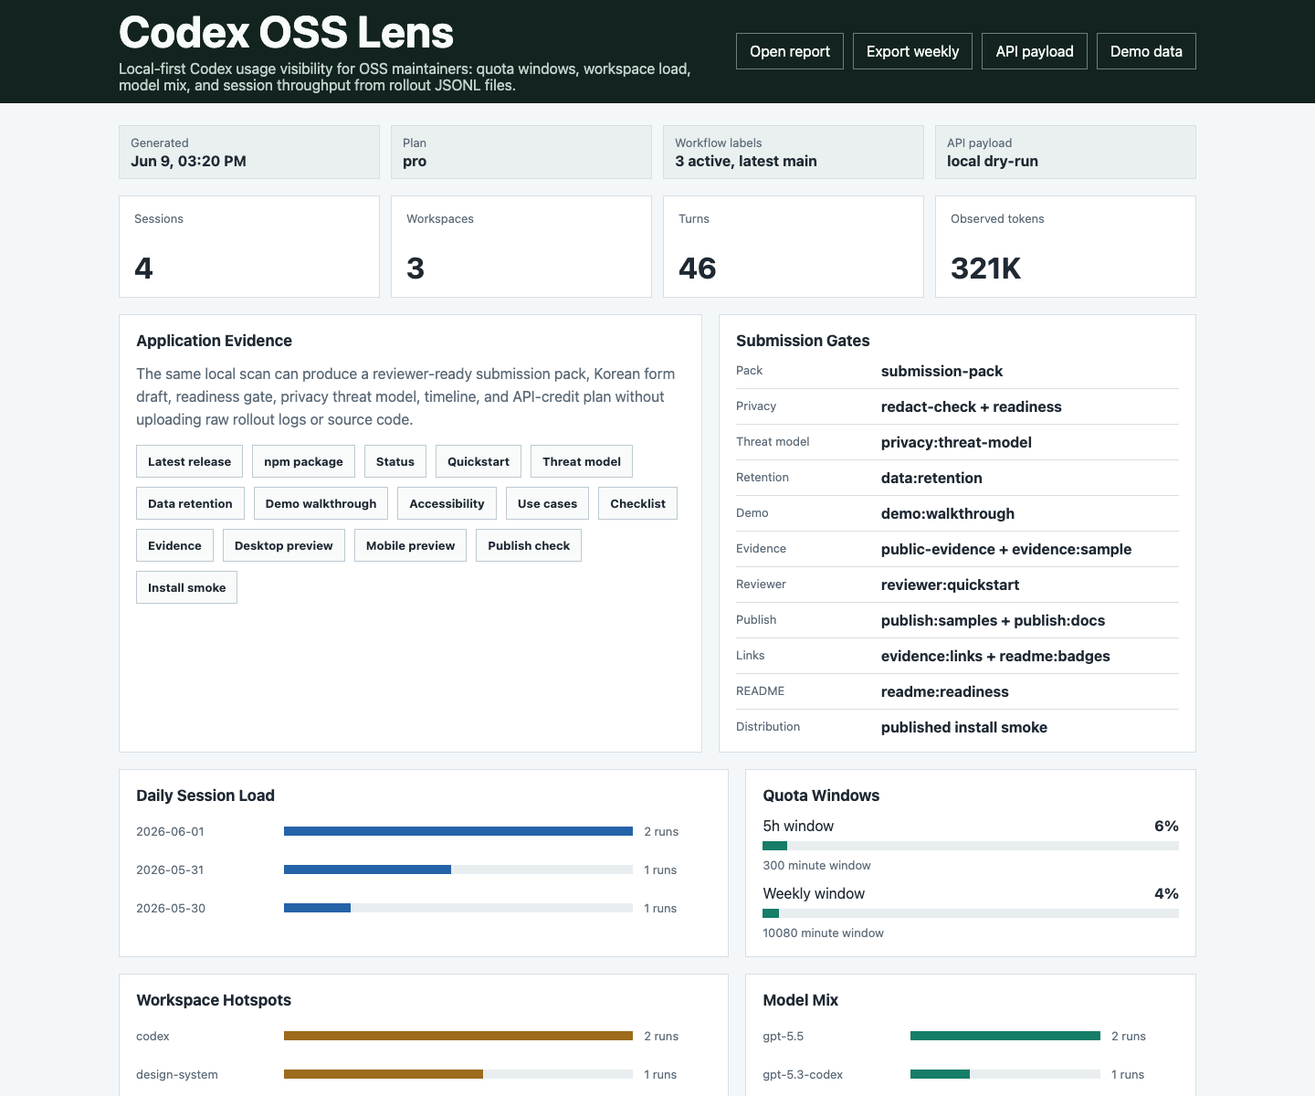
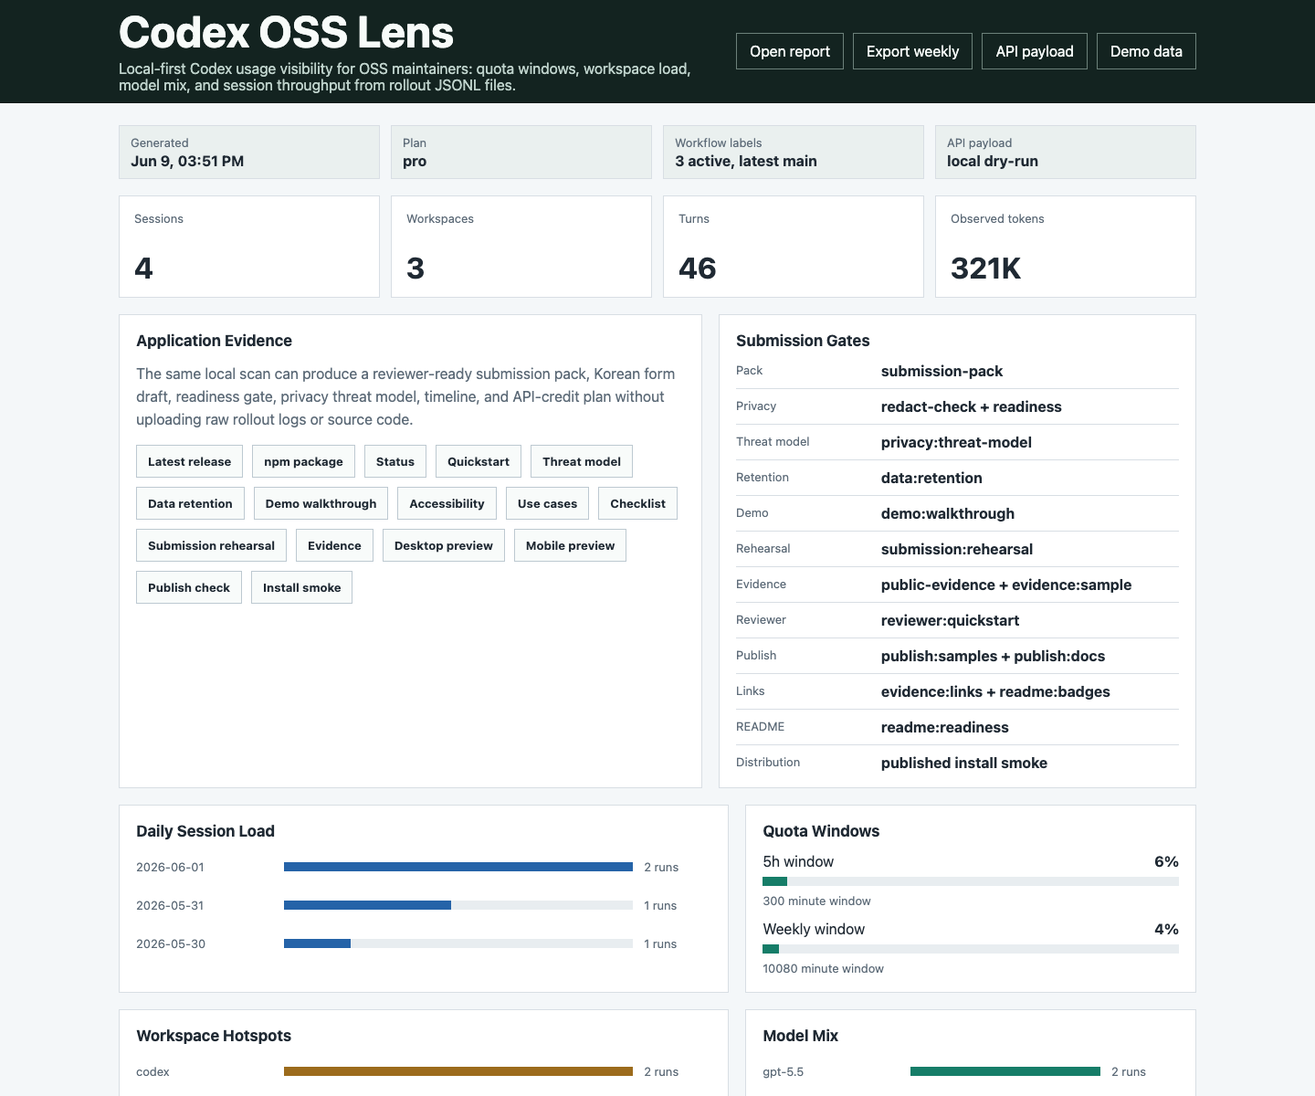
Make final submission rehearsal reviewable
The project now has extensive public evidence, but the final form submission still mixes machine-checkable gates with account-owner-only actions. This change adds a submission rehearsal page, makes it first-class reviewer evidence, exposes it in the dashboard, and checks it through CI/submission gates so the final dry run is auditable without automating personal fields or terms acceptance.

Constraint: Account-owner fields, OpenAI organization ID, terms review, and the final Submit action must remain manual.

Constraint: Local 1Password SSH signing agent remains unreliable, so this automation commit is unsigned.

Rejected: Expand only the final checklist | a dedicated rehearsal page gives reviewers and the account owner a clearer dry-run path with abort conditions.

Confidence: high

Scope-risk: moderate

Directive: Keep docs/submission-rehearsal.md, public evidence links, dashboard evidence links, and submission:rehearsal aligned whenever the form fields or submit-time gates change.

Tested: npm run submission:rehearsal && npm run dashboard:readiness && npm run evidence:sample && npm run form-draft:sample && npm run final-copy:check && npm run application:status && npm run reviewer:quickstart && npm run publish:docs && npm run readme:readiness && npm run ci:readiness && npm test
[…]

diff --git a/src/cli.js b/src/cli.js
@@ -191,6 +191,7 @@ async function main() {
         apiWorkflowUrl: options.apiWorkflowUrl,
         useCasesUrl: options.useCasesUrl,
         finalChecklistUrl: options.finalChecklistUrl,
+        submissionRehearsalUrl: options.submissionRehearsalUrl,
         finalCopyUrl: options.finalCopyUrl,
         formDraftSampleUrl: options.formDraftSampleUrl,
         publicEvidenceSampleUrl: options.publicEvidenceSampleUrl,
@@ -287,6 +288,7 @@ function parseArgs(args) {
     else if (arg === "--npm-package") options.npmPackage = args[++i];
     else if (arg === "--use-cases-url") options.useCasesUrl = args[++i];
     else if (arg === "--final-checklist-url") options.finalChecklistUrl = args[++i];
+    else if (arg === "--submission-rehearsal-url") options.submissionRehearsalUrl = args[++i];
     else if (arg === "--final-copy-url") options.finalCopyUrl = args[++i];
     else if (arg === "--form-draft-sample-url") options.formDraftSampleUrl = args[++i];
     else if (arg === "--public-evidence-sample-url") options.publicEvidenceSampleUrl = args[++i];
@@ -391,11 +393,11 @@ Usage:
   codex-oss-lens scorecard --manifest manifest.json [--readiness readiness.json] [--api-plan api-plan.json] [--timeline timeline.json] [--out scorecard.json] [--markdown scorecard.md]
   codex-oss-lens evidence-index --manifest manifest.json [--readiness readiness.json] [--api-plan api-plan.json] [--timeline timeline.json] [--scorecard scorecard.json] [--form-draft form-draft.json] [--out evidence-index.json] [--markdown evidence-index.md] [--html evidence-index.html]
   codex-oss-lens submission-pack [--codex-home ~/.codex] [--repo owner/name] [--out-dir codex-submission-pack] [--demo]
-  codex-oss-lens form-draft --manifest manifest.json [--readiness readiness.json] [--api-plan api-plan.json] [--scorecard scorecard.json] [--repo url] [--release-url url] [--npm-package url] [--roadmap-url url] [--application-status-url url] [--reviewer-quickstart-url url] [--release-provenance-url url] [--adoption-plan-url url] [--maintenance-policy-url url] [--privacy-threat-model-url url] [--data-retention-url url] [--demo-walkthrough-url url] [--accessibility-url url] [--api-workflow-url url] [--use-cases-url url] [--final-checklist-url url] [--final-copy-url url] [--form-draft-sample-url url] [--public-evidence-sample-url url] [--dashboard-preview-url url] [--mobile-dashboard-preview-url url] [--publish-check-sample-url url] [--install-smoke-sample-url url] [--node-ci-url url] [--published-smoke-url url] [--out form-draft.json] [--markdown form-draft.md]
+  codex-oss-lens form-draft --manifest manifest.json [--readiness readiness.json] [--api-plan api-plan.json] [--scorecard scorecard.json] [--repo url] [--release-url url] [--npm-package url] [--roadmap-url url] [--application-status-url url] [--reviewer-quickstart-url url] [--release-provenance-url url] [--adoption-plan-url url] [--maintenance-policy-url url] [--privacy-threat-model-url url] [--data-retention-url url] [--demo-walkthrough-url url] [--accessibility-url url] [--api-workflow-url url] [--use-cases-url url] [--final-checklist-url url] [--submission-rehearsal-url url] [--final-copy-url url] [--form-draft-sample-url url] [--public-evidence-sample-url url] [--dashboard-preview-url url] [--mobile-dashboard-preview-url url] [--publish-check-sample-url url] [--install-smoke-sample-url url] [--node-ci-url url] [--published-smoke-url url] [--out form-draft.json] [--markdown form-draft.md]
   codex-oss-lens pack-validate <submission-pack-dir> [--min-score 75] [--out pack-validation.json] [--markdown pack-validation.md]
   codex-oss-lens publish-check [--package-json package.json] [--out publish-check.json] [--markdown publish-check.md]
   codex-oss-lens install-smoke [--package codex-oss-lens] [--version latest] [--bin codex-oss-lens] [--out install-smoke.json] [--markdown install-smoke.md]
-  codex-oss-lens public-evidence [--repo url] [--release-url url] [--npm-package url] [--roadmap-url url] [--application-status-url url] [--reviewer-quickstart-url url] [--release-provenance-url url] [--adoption-plan-url url] [--maintenance-policy-url url] [--privacy-threat-model-url url] [--data-retention-url url] [--demo-walkthrough-url url] [--accessibility-url url] [--api-workflow-url url] [--use-cases-url url] [--final-checklist-url url] [--final-copy-url url] [--form-draft-sample-url url] [--public-evidence-sample-url url] [--dashboard-preview-url url] [--mobile-dashboard-preview-url url] [--publish-check-sample-url url] [--install-smoke-sample-url url] [--node-ci-url url] [--published-smoke-url url] [--out public-evidence.json] [--markdown public-evidence.md]
+  codex-oss-lens public-evidence [--repo url] [--release-url url] [--npm-package url] [--roadmap-url url] [--application-status-url url] [--reviewer-quickstart-url url] [--release-provenance-url url] [--adoption-plan-url url] [--maintenance-policy-url url] [--privacy-threat-model-url url] [--data-retention-url url] [--demo-walkthrough-url url] [--accessibility-url url] [--api-workflow-url url] [--use-cases-url url] [--final-checklist-url url] [--submission-rehearsal-url url] [--final-copy-url url] [--form-draft-sample-url url] [--public-evidence-sample-url url] [--dashboard-preview-url url] [--mobile-dashboard-preview-url url] [--publish-check-sample-url url] [--install-smoke-sample-url url] [--node-ci-url url] [--published-smoke-url url] [--out public-evidence.json] [--markdown public-evidence.md]
   codex-oss-lens serve [--codex-home ~/.codex] [--port 5057] [--demo]
   codex-oss-lens demo [--out report.json]
 

diff --git a/test/public-evidence.test.js b/test/public-evidence.test.js
@@ -20,6 +20,7 @@ test("builds public evidence with required links and manual fields", () => {
   assert.match(evidence.publicLinks.privacyThreatModelUrl, /docs\/privacy-threat-model\.md$/);
   assert.match(evidence.publicLinks.dataRetentionUrl, /docs\/data-retention\.md$/);
   assert.match(evidence.publicLinks.demoWalkthroughUrl, /docs\/demo-walkthrough\.md$/);
+  assert.match(evidence.publicLinks.submissionRehearsalUrl, /docs\/submission-rehearsal\.md$/);
   assert.match(evidence.publicLinks.accessibilityUrl, /docs\/accessibility\.md$/);
   assert.ok(evidence.proofPoints.some((item) => item.id === "publishedSmoke"));
   assert.ok(evidence.proofPoints.some((item) => item.id === "applicationStatus"));
@@ -30,6 +31,7 @@ test("builds public evidence with required links and manual fields", () => {
   assert.ok(evidence.proofPoints.some((item) => item.id === "privacyThreatModel"));
   assert.ok(evidence.proofPoints.some((item) => item.id === "dataRetention"));
   assert.ok(evidence.proofPoints.some((item) => item.id === "demoWalkthrough"));
+  assert.ok(evidence.proofPoints.some((item) => item.id === "submissionRehearsal"));
   assert.ok(evidence.proofPoints.some((item) => item.id === "accessibility"));
   assert.ok(evidence.proofPoints.some((item) => item.id === "finalChecklist"));
   assert.ok(evidence.proofPoints.some((item) => item.id === "finalCopy"));
@@ -93,6 +95,8 @@ test("CLI accepts reviewer link overrides for public evidence", async () => {
     "https://github.com/example/project/blob/main/docs/maintainer-use-cases.md",
     "--final-checklist-url",
     "https://github.com/example/project/blob/main/docs/final-submission-checklist.md",
+    "--submission-rehearsal-url",
+    "https://github.com/example/project/blob/main/docs/submission-rehearsal.md",
     "--final-copy-url",
     "https://github.com/example/project/blob/main/application/final-copy.md",
     "--form-draft-sample-url",
@@ -126,6 +130,7 @@ test("CLI accepts reviewer link overrides for public evidence", async () => {
   assert.equal(evidence.publicLinks.demoWalkthroughUrl, "https://github.com/example/project/blob/main/docs/demo-walkthrough.md");
   assert.equal(evidence.publicLinks.accessibilityUrl, "https://github.com/example/project/blob/main/docs/accessibility.md");
   assert.equal(evidence.publicLinks.finalChecklistUrl, "https://github.com/example/project/blob/main/docs/final-submission-checklist.md");
+  assert.equal(evidence.publicLinks.submissionRehearsalUrl, "https://github.com/example/project/blob/main/docs/submission-rehearsal.md");
   assert.equal(evidence.publicLinks.formDraftSampleUrl, "https://github.com/example/project/blob/main/examples/form-draft.sample.md");
   assert.equal(evidence.publicLinks.publicEvidenceSampleUrl, "https://github.com/example/project/blob/main/examples/public-evidence.sample.md");
   assert.equal(evidence.publicLinks.dashboardPreviewUrl, "https://github.com/example/project/blob/main/examples/dashboard-preview.png");

diff --git a/scripts/check-submission-rehearsal.js b/scripts/check-submission-rehearsal.js
@@ -1,0 +1,55 @@
+#!/usr/bin/env node
+import { promises as fs } from "node:fs";
+
+const files = {
+  rehearsal: await fs.readFile("docs/submission-rehearsal.md", "utf8"),
+  status: await fs.readFile("docs/application-status.md", "utf8"),
+  reviewer: await fs.readFile("docs/reviewer-quickstart.md", "utf8"),
+  checklist: await fs.readFile("docs/final-submission-checklist.md", "utf8"),
+  readme: await fs.readFile("README.md", "utf8"),
+  dashboard: await fs.readFile("public/index.html", "utf8"),
+  workflow: await fs.readFile(".github/workflows/test.yml", "utf8"),
+  formAnswers: await fs.readFile("application/form-answers.md", "utf8"),
+};
+
+let failures = 0;
+
+requireText("rehearsal", "# Submission Rehearsal", "title");
+requireText("rehearsal", "npm run submission:check", "submission check command");
+requireText("rehearsal", "npm run evidence:links", "public link command");
+requireText("rehearsal", "npm run submission:rehearsal", "self gate command");
+requireText("rehearsal", "signed-out browser", "signed-out review requirement");
+requireText("rehearsal", "Last name", "manual last name");
+requireText("rehearsal", "OpenAI organization ID", "manual org id");
+requireText("rehearsal", "Terms review and final submit", "manual terms gate");
+requireText("rehearsal", "https://openai.com/ko-KR/form/codex-for-oss/", "source form URL");
+requireText("rehearsal", "Stop before pressing Submit", "submit stop gate");
+requireText("rehearsal", "Do not submit if", "abort condition heading");
+requireText("status", "Submission rehearsal | Ready", "application status row");
+requireText("status", "npm run submission:rehearsal", "application status command");
+requireText("reviewer", "docs/submission-rehearsal.md", "reviewer rehearsal link");
+requireText("checklist", "docs/submission-rehearsal.md", "final checklist rehearsal link");
+requireText("checklist", "npm run submission:rehearsal", "final checklist gate");
+requireText("readme", "docs/submission-rehearsal.md", "README rehearsal link");
+requireText("readme", "npm run submission:rehearsal", "README rehearsal gate");
+requireText("dashboard", "docs/submission-rehearsal.md", "dashboard rehearsal link");
+requireText("dashboard", "Submission rehearsal", "dashboard rehearsal label");
+requireText("dashboard", "submission:rehearsal", "dashboard rehearsal gate");
+requireText("workflow", "npm run submission:rehearsal", "CI rehearsal gate");
+requireText("formAnswers", "docs/submission-rehearsal.md", "form answers rehearsal link");
+
+if (failures) {
+  console.error(`Submission rehearsal check failed for ${failures} requirement(s).`);
+  process.exit(1);
+}
+
+console.log("pass submissionRehearsal");
+
+function requireText(fileKey, needle, label) {
+  if (files[fileKey].includes(needle)) {
+    console.log(`pass ${label}`);
+    return;
+  }
+  console.error(`fail missing ${label}: ${needle}`);
+  failures += 1;
+}

diff --git a/src/public-evidence.js b/src/public-evidence.js
@@ -15,6 +15,7 @@ const DEFAULTS = {
   apiWorkflowUrl: "https://github.com/dbunk903/codex-oss-lens/blob/main/docs/api-credit-workflow.md",
   useCasesUrl: "https://github.com/dbunk903/codex-oss-lens/blob/main/docs/maintainer-use-cases.md",
   finalChecklistUrl: "https://github.com/dbunk903/codex-oss-lens/blob/main/docs/final-submission-checklist.md",
+  submissionRehearsalUrl: "https://github.com/dbunk903/codex-oss-lens/blob/main/docs/submission-rehearsal.md",
   finalCopyUrl: "https://github.com/dbunk903/codex-oss-lens/blob/main/application/final-copy.md",
   formDraftSampleUrl: "https://github.com/dbunk903/codex-oss-lens/blob/main/examples/form-draft.sample.md",
   publicEvidenceSampleUrl: "https://github.com/dbunk903/codex-oss-lens/blob/main/examples/public-evidence.sample.md",
@@ -60,6 +61,7 @@ export function buildPublicEvidence(options = {}) {
       proof("apiCreditWorkflow", "API-credit workflow keeps raw logs local and sends aggregate opt-in payloads.", links.apiWorkflowUrl),
       proof("maintainerUseCases", "Maintainer use cases document weekly review, evidence, privacy, and package confidence.", links.useCasesUrl),
       proof("finalChecklist", "Final checklist captures submit-time public links, verification, and account-owner gates.", links.finalChecklistUrl),
+      proof("submissionRehearsal", "Submission rehearsal separates machine checks from account-owner-only form steps.", links.submissionRehearsalUrl),
       proof("finalCopy", "Final copy keeps Korean application answers within form limits.", links.finalCopyUrl),
       proof("formDraftSample", "Form draft sample shows paste-ready answers with complete reviewer links.", links.formDraftSampleUrl),
       proof("publicEvidenceSample", "Public evidence sample records the generated reviewer link set.", links.publicEvidenceSampleUrl),
@@ -97,6 +99,7 @@ function compactLinks(options) {
     ...(options.apiWorkflowUrl ? { apiWorkflowUrl: options.apiWorkflowUrl } : {}),
     ...(options.useCasesUrl ? { useCasesUrl: options.useCasesUrl } : {}),
     ...(options.finalChecklistUrl ? { finalChecklistUrl: options.finalChecklistUrl } : {}),
+    ...(options.submissionRehearsalUrl ? { submissionRehearsalUrl: options.submissionRehearsalUrl } : {}),
     ...(options.finalCopyUrl ? { finalCopyUrl: options.finalCopyUrl } : {}),
     ...(options.formDraftSampleUrl ? { formDraftSampleUrl: options.formDraftSampleUrl } : {}),
     ...(options.publicEvidenceSampleUrl ? { publicEvidenceSampleUrl: options.publicEvidenceSampleUrl } : {}),

diff --git a/public/index.html b/public/index.html
@@ -442,6 +442,7 @@
               <a class="link-button" href="https://github.com/dbunk903/codex-oss-lens/blob/main/docs/accessibility.md">Accessibility</a>
               <a class="link-button" href="https://github.com/dbunk903/codex-oss-lens/blob/main/docs/maintainer-use-cases.md">Use cases</a>
               <a class="link-button" href="https://github.com/dbunk903/codex-oss-lens/blob/main/docs/final-submission-checklist.md">Checklist</a>
+              <a class="link-button" href="https://github.com/dbunk903/codex-oss-lens/blob/main/docs/submission-rehearsal.md">Submission rehearsal</a>
               <a class="link-button" href="https://github.com/dbunk903/codex-oss-lens/blob/main/examples/public-evidence.sample.md">Evidence</a>
               <a class="link-button" href="https://github.com/dbunk903/codex-oss-lens/blob/main/examples/dashboard-preview.png">Desktop preview</a>
               <a class="link-button" href="https://github.com/dbunk903/codex-oss-lens/blob/main/examples/dashboard-mobile-preview.png">Mobile preview</a>
@@ -457,6 +458,7 @@
               <li><span class="label">Threat model</span><strong>privacy:threat-model</strong></li>
               <li><span class="label">Retention</span><strong>data:retention</strong></li>
               <li><span class="label">Demo</span><strong>demo:walkthrough</strong></li>
+              <li><span class="label">Rehearsal</span><strong>submission:rehearsal</strong></li>
               <li><span class="label">Evidence</span><strong>public-evidence + evidence:sample</strong></li>
               <li><span class="label">Reviewer</span><strong>reviewer:quickstart</strong></li>
               <li><span class="label">Publish</span><strong>publish:samples + publish:docs</strong></li>

diff --git a/test/form-draft.test.js b/test/form-draft.test.js
@@ -28,6 +28,7 @@ test("builds copy-ready Korean OSS support form draft", () => {
       dataRetentionUrl: "https://github.com/dbunk903/codex-oss-lens/blob/main/docs/data-retention.md",
       demoWalkthroughUrl: "https://github.com/dbunk903/codex-oss-lens/blob/main/docs/demo-walkthrough.md",
       accessibilityUrl: "https://github.com/dbunk903/codex-oss-lens/blob/main/docs/accessibility.md",
+      submissionRehearsalUrl: "https://github.com/dbunk903/codex-oss-lens/blob/main/docs/submission-rehearsal.md",
     },
   });
 
@@ -41,6 +42,7 @@ test("builds copy-ready Korean OSS support form draft", () => {
   assert.equal(draft.publicLinks.dataRetention, "https://github.com/dbunk903/codex-oss-lens/blob/main/docs/data-retention.md");
   assert.equal(draft.publicLinks.demoWalkthrough, "https://github.com/dbunk903/codex-oss-lens/blob/main/docs/demo-walkthrough.md");
   assert.equal(draft.publicLinks.accessibility, "https://github.com/dbunk903/codex-oss-lens/blob/main/docs/accessibility.md");
+  assert.equal(draft.publicLinks.submissionRehearsal, "https://github.com/dbunk903/codex-oss-lens/blob/main/docs/submission-rehearsal.md");
   assert.ok(draft.requiredManualFields.includes("Terms review and final submit"));
   assert.ok(draft.fields.repositoryFit.chars <= 500);
   assert.ok(draft.fields.apiCreditsPlan.text.includes("implementation"));

diff --git a/scripts/check-dashboard-readiness.js b/scripts/check-dashboard-readiness.js
@@ -20,6 +20,9 @@ requireText("data:retention", "dashboard data retention gate");
 requireText("docs/demo-walkthrough.md", "dashboard demo walkthrough link");
 requireText("Demo walkthrough", "dashboard demo walkthrough label");
 requireText("demo:walkthrough", "dashboard demo walkthrough gate");
+requireText("docs/submission-rehearsal.md", "dashboard submission rehearsal link");
+requireText("Submission rehearsal", "dashboard submission rehearsal label");
+requireText("submission:rehearsal", "dashboard submission rehearsal gate");
 requireText("public-evidence + evidence:sample", "public evidence sample gate");
 requireText("reviewer:quickstart", "reviewer quickstart gate");
 requireText("publish:samples + publish:docs", "publish gate");
@@ -39,6 +42,7 @@ for (const [label, url] of Object.entries({
   demoWalkthroughUrl: evidence.publicLinks.demoWalkthroughUrl,
   accessibilityUrl: evidence.publicLinks.accessibilityUrl,
   finalChecklistUrl: evidence.publicLinks.finalChecklistUrl,
+  submissionRehearsalUrl: evidence.publicLinks.submissionRehearsalUrl,
   publicEvidenceSampleUrl: evidence.publicLinks.publicEvidenceSampleUrl,
   dashboardPreviewUrl: evidence.publicLinks.dashboardPreviewUrl,
   mobileDashboardPreviewUrl: evidence.publicLinks.mobileDashboardPreviewUrl,

diff --git a/scripts/check-application-status.js b/scripts/check-application-status.js
@@ -36,6 +36,7 @@ requireText("npm run privacy:threat-model", "privacy threat model gate command")
 requireText("npm run accessibility:readiness", "accessibility readiness gate command");
 requireText("npm run data:retention", "data retention gate command");
 requireText("npm run demo:walkthrough", "demo walkthrough gate command");
+requireText("npm run submission:rehearsal", "submission rehearsal gate command");
 requireText("npm run evidence:links", "public link health gate command");
 requireText("npm run readme:badges", "README badge gate command");
 requireText("npm run readme:readiness", "README readiness gate command");
@@ -62,6 +63,7 @@ requireText("Privacy threat model | Ready", "privacy threat model row");
 requireText("Accessibility readiness | Ready", "accessibility readiness row");
 requireText("Data retention | Ready", "data retention row");
 requireText("Demo walkthrough | Ready", "demo walkthrough row");
+requireText("Submission rehearsal | Ready", "submission rehearsal row");
 requireText("Visual previews | Ready", "visual previews row");
 requireText("Public link health | Ready", "public link health row");
 requireText("public preview PNG dimensions", "public preview PNG dimensions");

diff --git a/scripts/check-publishing-docs.js b/scripts/check-publishing-docs.js
@@ -22,6 +22,7 @@ requirePublishingText("npm run privacy:threat-model", "privacy threat model gate
 requirePublishingText("npm run accessibility:readiness", "accessibility readiness gate");
 requirePublishingText("npm run data:retention", "data retention gate");
 requirePublishingText("npm run demo:walkthrough", "demo walkthrough gate");
+requirePublishingText("npm run submission:rehearsal", "submission rehearsal gate");
 requirePublishingText("npm run readme:readiness", "README readiness gate");
 requirePublishingText("node src/cli.js publish-check --markdown publish-check.md", "publish check command");
 requirePublishingText("npm publish --access public --otp <6-digit-code>", "OTP publish command");
@@ -56,6 +57,7 @@ requireChecklistText("privacy:threat-model", "privacy threat model evidence");
 requireChecklistText("accessibility:readiness", "accessibility readiness evidence");
 requireChecklistText("data:retention", "data retention evidence");
 requireChecklistText("demo:walkthrough", "demo walkthrough evidence");
+requireChecklistText("submission:rehearsal", "submission rehearsal evidence");
 requireChecklistText("readme:readiness", "README readiness evidence");
 
 if (failures) {

diff --git a/scripts/check-readme-readiness.js b/scripts/check-readme-readiness.js
@@ -24,6 +24,7 @@ requireText("npm run privacy:threat-model", "privacy threat model gate");
 requireText("npm run accessibility:readiness", "accessibility readiness gate");
 requireText("npm run data:retention", "data retention gate");
 requireText("npm run demo:walkthrough", "demo walkthrough gate");
+requireText("npm run submission:rehearsal", "submission rehearsal gate");
 requireText("npm run public:redaction", "public redaction gate");
 requireText("npm run evidence:sample", "public evidence sample gate");
 requireText("npm run evidence:links", "public link health gate");
@@ -38,6 +39,7 @@ requireText("docs/privacy-threat-model.md", "privacy threat model link");
 requireText("docs/accessibility.md", "accessibility link");
 requireText("docs/data-retention.md", "data retention link");
 requireText("docs/demo-walkthrough.md", "demo walkthrough link");
+requireText("docs/submission-rehearsal.md", "submission rehearsal link");
 requireText("SUPPORT.md", "support policy link");
 requireText("CODE_OF_CONDUCT.md", "code of conduct link");
 requireText("[MIT](LICENSE)", "license link");

diff --git a/src/form-draft.js b/src/form-draft.js
@@ -27,6 +27,7 @@ export function buildFormDraft({ manifest, readiness, apiPlan, scorecard, links 
       apiCreditWorkflow: links.apiWorkflowUrl || "",
       maintainerUseCases: links.useCasesUrl || "",
       finalChecklist: links.finalChecklistUrl || "",
+      submissionRehearsal: links.submissionRehearsalUrl || "",
       finalCopy: links.finalCopyUrl || "",
       formDraftSample: links.formDraftSampleUrl || "",
       publicEvidenceSample: links.publicEvidenceSampleUrl || "",
@@ -123,6 +124,7 @@ const PUBLIC_LINK_LABELS = {
   apiCreditWorkflow: "API credit workflow",
   maintainerUseCases: "Maintainer use cases",
   finalChecklist: "Final checklist",
+  submissionRehearsal: "Submission rehearsal",
   finalCopy: "Final copy",
   formDraftSample: "Form draft sample",
   publicEvidenceSample: "Public evidence sample",

diff --git a/scripts/check-ci-readiness.js b/scripts/check-ci-readiness.js
@@ -34,6 +34,7 @@ requireText("npm run privacy:threat-model", "privacy threat model check");
 requireText("npm run accessibility:readiness", "accessibility readiness check");
 requireText("npm run data:retention", "data retention check");
 requireText("npm run demo:walkthrough", "demo walkthrough check");
+requireText("npm run submission:rehearsal", "submission rehearsal check");
 requireText("npm run public:redaction", "public redaction check");
 requireText("npm run evidence:sample", "public evidence sample check");
 requireText("npm run evidence:links", "public evidence link check");
